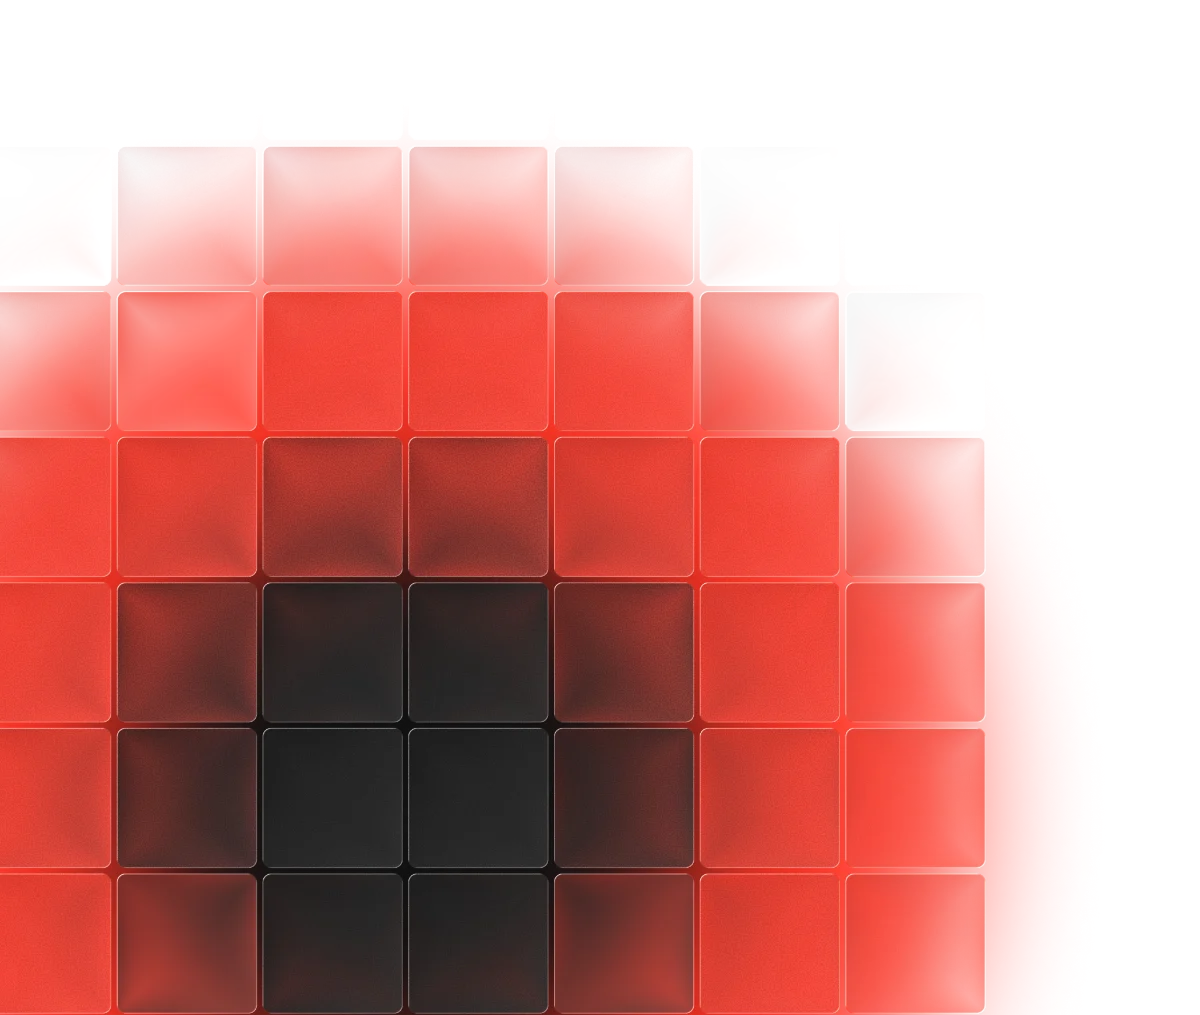
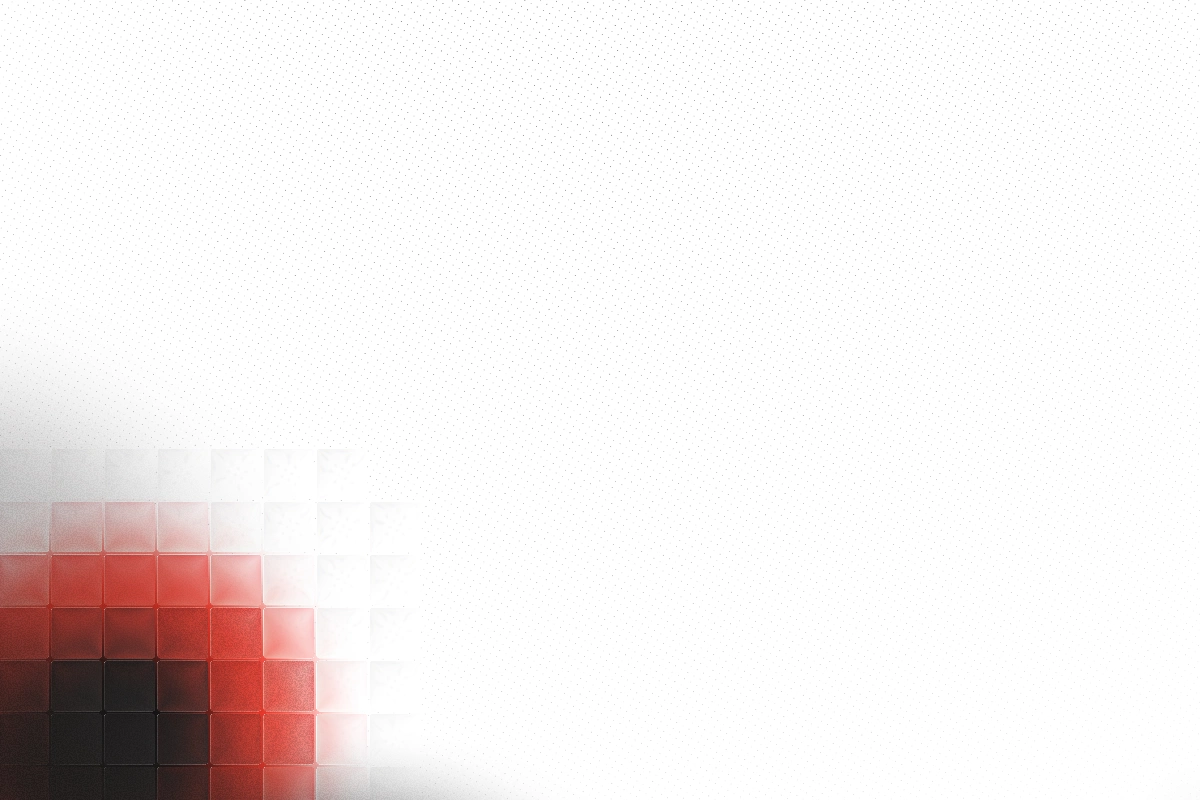
kk

diff --git a/src/components/UIUX.jsx b/src/components/UIUX.jsx
@@ -131,9 +131,9 @@ export default function UIUX({ setActivePage }) {
         tools: ["/images/logos/photoshop.svg"],
         role: "Web Graphic Designer",
         challenge:
-          "Design modern, advocacy-driven web pages for community wellness programs.",
+          "Create an engaging, modern web page for a non-profit that clearly communicates global water issues and inspires visitors to take action.",
         solution:
-          "Produced visual assets, Photoshop photo-composites, and coordinated typography styles to increase visitor engagement.",
+          "Crafted custom visual assets, photo-composites, and a warm visual hierarchy to make the organization’s mission memorable and drive community involvement.",
       },
 
       {
@@ -171,9 +171,9 @@ export default function UIUX({ setActivePage }) {
         tools: ["/images/logos/photoshop.svg"],
         role: "Visual UI Designer",
         challenge:
-          "Redesign complex legacy database tables and widgets to fit a clean visual identity.",
+          "Redesign complex enterprise pages like corporate blogs, photo galleries, and data charts into clean and readable web layouts.",
         solution:
-          "Designed modernized dashboard graphs, search states, and tables using high contrast colors and balanced paddings.",
+          "Designed structured grids, photo composites, and visual infographics in Photoshop while using the Timeline feature to animate key landing page elements.",
       },
 
       {
@@ -214,10 +214,9 @@ export default function UIUX({ setActivePage }) {
         tools: ["/images/logos/figma.svg"],
         role: "Interface Designer",
         challenge:
-          "Design an optimized mobile checkout interface to simplify offline-to-online item scanning and purchase confirmation.",
+          "Design an intuitive mobile e-commerce interface that guides users seamlessly from product browsing through to checkout.",
         solution:
-          "Implemented horizontal product scrolling layouts, rapid checkout sheets, and high-contrast total breakdown tables.",
-        images: ["/images/smartcart/smartcart.webp", "/images/smartcart/smartcart.webp"],
+          "Crafted full mobile app screen flows featuring structured product cards, a clear cart checkout system, and a user account dashboard.",
       },
 
       {
@@ -232,13 +231,37 @@ export default function UIUX({ setActivePage }) {
         tools: ["/images/logos/figma.svg"],
         role: "Lead UI/UX Designer",
         challenge:
-          "Design a robust software management suite for academic developer teams to track project backlogs and milestones.",
+          "Design a modern landing page and onboarding flow for a B2B platform selling educational software and hardware to schools.",
         solution:
-          "Created task boards, progress tracking widgets, and resource management states to bridge design-to-development collaboration.",
+          "Crafted a clean hero section highlighting IT solutions alongside a multi step registration flow featuring institutional email authentication and streamlined account setup.",
         images: [
           "/images/Maestro/Maestro1.webp",
           "/images/Maestro/Maestro2.webp",
           "/images/Maestro/Maestro3.webp",
+        ],
+      },
+
+      {
+        type: "figma",
+        src: "https://embed.figma.com/proto/jlktYX3YdOKSPDmKLWhbeC/BusyBee?node-id=18-59&scaling=min-zoom&content-scaling=fixed&page-id=0%3A1&starting-point-node-id=18%3A59&embed-host=share",
+        thumbnail: "/images/Busybee/BusyBee-background.webp",
+        thumbnailSubject: "/images/Busybee/BusyBee-subject.webp",
+        subjectHoverScale:
+          "group-hover:scale-[1.18] group-hover:translate-y-[3rem]",
+        title: "BusyBee",
+        category: "Productivity App",
+        tools: ["/images/logos/figma.svg"],
+        role: "Product Designer",
+        challenge:
+          "Design a full to-do app experience across desktop and mobile that makes staying on top of your day feel simple instead of another chore.",
+        solution:
+          "Designed quick task entry, category-based organization, and clear completed/priority states across both desktop and mobile, backed by a calm, purposeful visual system that stays legible even when the list gets long.",
+        images: [
+
+          "/images/Busybee/desktop.webp",
+          "/images/Busybee/desktop-empty-state.webp",
+          "/images/Busybee/phone-mockup.webp",
+          "/images/Busybee/color-system.webp",
         ],
       },
     ],
@@ -259,9 +282,9 @@ export default function UIUX({ setActivePage }) {
         tools: ["/images/logos/figma.svg"],
         role: "OJT UI/UX Designer",
         challenge:
-          "Assist in redesigning the core business service platform layout to enhance usability and feature discovery.",
+          "Redesign the core landing page for an AI website builder to clearly communicate product features, step by step workflows, and pricing tiers.",
         solution:
-          "Drafted grid structures, interactive wireframes, and component states under senior oversight.",
+          "Created a full SaaS landing page layout featuring a high impact hero banner, a three step visual guide, detailed feature grids, and structured pricing cards.",
         images: [
           "/images/choros-redesign/choros1.webp",
           "/images/choros-redesign/choros2.webp",
@@ -286,9 +309,9 @@ export default function UIUX({ setActivePage }) {
         tools: ["/images/logos/figma.svg"],
         role: "OJT UI/UX Designer",
         challenge:
-          "Build a responsive mobile e-commerce mockup to present feature capabilities during client pitches.",
+          "Redesign an AI-driven fintech platform to clearly present complex business funding options, loan estimation tools, and virtual advisory services.",
         solution:
-          "Designed checkout sheets, cart views, and catalog navigations using unified Figma design components.",
+          "Created responsive light and dark theme landing page components featuring interactive calculator widgets, structured funding cards, and an intuitive three-step application guide.",
         images: [
           "/images/ycom/ycom1.webp",
           "/images/ycom/ycom2.webp",
@@ -362,7 +385,7 @@ export default function UIUX({ setActivePage }) {
         <meta property="og:title" content="UI/UX Design Portfolio | Juneco Mirande" />
         <meta property="og:url" content="https://juneco-mirande.web.app/uiux" />
       </Helmet>
-      
+
       <h1 className="font-sans font-bold text-5xl sm:text-7xl tracking-tighter uppercase text-dark mb-4">
         UI/UX Design
       </h1>
@@ -450,7 +473,7 @@ export default function UIUX({ setActivePage }) {
             onClick={(e) => e.stopPropagation()}
           >
             {/* 1. Left Context Sidebar (30% Width on Desktop) */}
-            <div className="w-full md:w-[320px] lg:w-[380px] shrink-0 order-2 md:order-1 max-h-[38vh] md:max-h-none border-t md:border-t-0 md:border-r border-primary/10 p-5 sm:p-6 md:p-8 flex flex-col justify-between overflow-y-auto text-primary">
+            <div className="w-full md:w-[320px] lg:w-[380px] shrink-0 order-2 md:order-1 max-h-[38vh] md:max-h-none border-t md:border-t-0 md:border-r border-primary/10 p-5 sm:p-6 md:p-8 flex flex-col justify-between overflow-y-auto text-primary" data-lenis-prevent>
               <div>
                 {/* Header */}
                 <span className="font-mono text-[9px] text-accent tracking-[3px] uppercase font-bold">
@@ -513,19 +536,19 @@ export default function UIUX({ setActivePage }) {
                 </div>
                 {(allWorks[openModal].type === "link" ||
                   allWorks[openModal].type === "figma") && (
-                  <a
-                    href={
-                      allWorks[openModal].type === "link"
-                        ? allWorks[openModal].url
-                        : allWorks[openModal].src
-                    }
-                    target="_blank"
-                    rel="noopener noreferrer"
-                    className="inline-flex items-center gap-2 bg-accent hover:bg-accent/90 text-white px-4 py-2 rounded-full font-mono text-[10px] uppercase font-bold tracking-widest transition-all"
-                  >
-                    Open Live <ArrowUpRight size={12} weight="bold" />
-                  </a>
-                )}
+                    <a
+                      href={
+                        allWorks[openModal].type === "link"
+                          ? allWorks[openModal].url
+                          : allWorks[openModal].src
+                      }
+                      target="_blank"
+                      rel="noopener noreferrer"
+                      className="inline-flex items-center gap-2 bg-accent hover:bg-accent/90 text-white px-4 py-2 rounded-full font-mono text-[10px] uppercase font-bold tracking-widest transition-all"
+                    >
+                      Open Live <ArrowUpRight size={12} weight="bold" />
+                    </a>
+                  )}
               </div>
             </div>
 
@@ -542,14 +565,14 @@ export default function UIUX({ setActivePage }) {
 
               <div className="w-full h-full">
                 {allWorks[openModal].type === "scrollable-image" ||
-                allWorks[openModal].images ? (
-                  <div className="w-full h-full overflow-y-auto py-4 sm:py-8 select-none">
+                  allWorks[openModal].images ? (
+                  <div className="w-full h-full overflow-y-auto py-4 sm:py-8 select-none" data-lenis-prevent>
                     <div
                       className={`flex flex-col items-center max-w-3xl mx-auto ${allWorks[openModal].noGap ? "gap-0" : "gap-4"}`}
                     >
                       {allWorks[openModal].images.map((img, imgIndex) =>
                         img.toLowerCase().endsWith(".webm") ||
-                        img.toLowerCase().endsWith(".mp4") ? (
+                          img.toLowerCase().endsWith(".mp4") ? (
                           <video
                             key={imgIndex}
                             src={img}

diff --git a/src/components/WebDev.jsx b/src/components/WebDev.jsx
@@ -64,9 +64,9 @@ export default function WebDev({ setActivePage }) {
         ],
         role: "Full-Stack Developer",
         challenge:
-          "Develop a car rental web platform with user authentication, dynamic search filters, and an interactive reservation system.",
+          "Develop a user-friendly rental platform for outdoor enthusiasts to browse inventory, understand the booking process, and manage rental requirements efficiently.",
         solution:
-          "Built a fully responsive Next.js application using Firebase Firestore for persistent data storage and Firebase Auth for secure customer logins.",
+          "Designed a responsive web interface featuring a streamlined rental guide, clear procedural FAQ, and an intuitive product catalog to simplify equipment bookings for hikers and campers.",
       },
       {
         type: "link",

diff --git a/application_draft.md b/application_draft.md
@@ -1,0 +1,22 @@
+Subject: A-Player — Brand Designer Application, Juneco Mirande
+
+A-Player.
+
+Hi Nina,
+
+I'm Juneco, a graphic and brand designer based in the Philippines with 3 years of experience creating branding, marketing, and social media graphics. I also have a UI/UX and frontend background, which helps me approach design with real conversion and usability in mind, not just aesthetics.
+
+AI image generation is a regular part of my workflow. I use ChatGPT and Google's Flow to generate and refine imagery, and Google Stitch for quick concepting, so I'm very comfortable moving fast and iterating.
+
+Full Portfolio: https://juneco-mirande.web.app/graphic
+
+For examples of relevant work that fit what you're looking for, here are a few direct links:
+- **Branding & Visual Identity (Neue Dept.):** https://juneco-mirande.web.app/graphics/neue-dept
+- **Marketing Collateral (TI):** https://juneco-mirande.web.app/graphics/ti
+- **Promotional Graphics & Meta Ads:** https://juneco-mirande.web.app/graphics/poster-making
+- **Advanced Photo Manipulation (Useful for polishing AI output):** https://juneco-mirande.web.app/graphics/simulated-sanctuary
+
+One quick question—what working hours or timezone does the team operate on? I want to make sure I can align well.
+
+Best,
+Juneco Mirande
